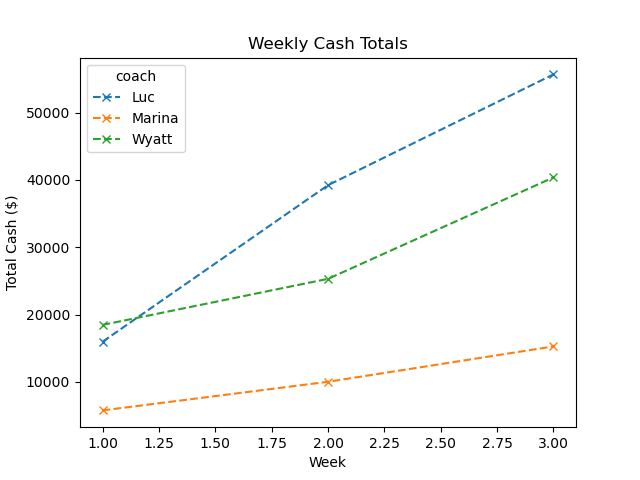
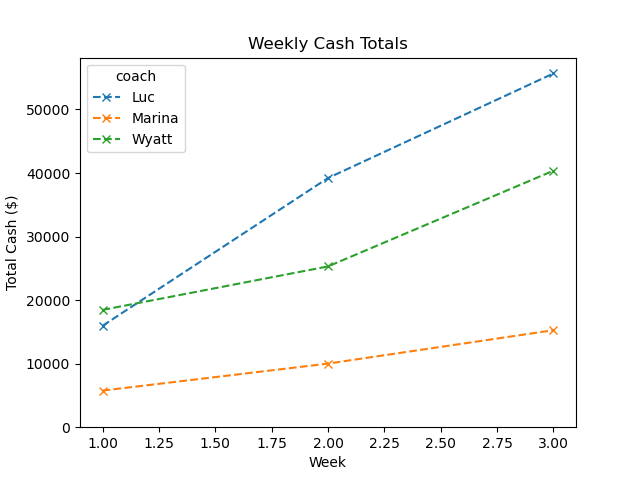
Fix weekly plot axis

diff --git a/src/build_site.py b/src/build_site.py
@@ -6,7 +6,8 @@ def make_weekly_plot(teamData, filename):
     df = teamData[teamData.status == 'start']
     weekly = df[['week', 'coach', 'cash']].groupby(by=['week', 'coach'], as_index=False).sum()
     weekly = weekly.pivot(index="week", columns="coach", values="cash")
-    weekly.cumsum().plot(title="Weekly Cash Totals", ylabel="Total Cash ($)", xlabel="Week", style='--x')
+    ax = weekly.cumsum().plot(title="Weekly Cash Totals", ylabel="Total Cash ($)", xlabel="Week", style='--x')
+    ax.set_ylim(bottom=0)
     plt.savefig('docs/' + filename)
 
 def make_place_string(place):
